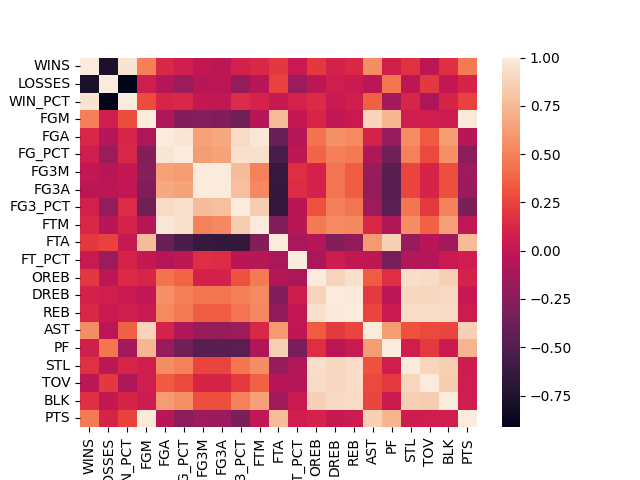
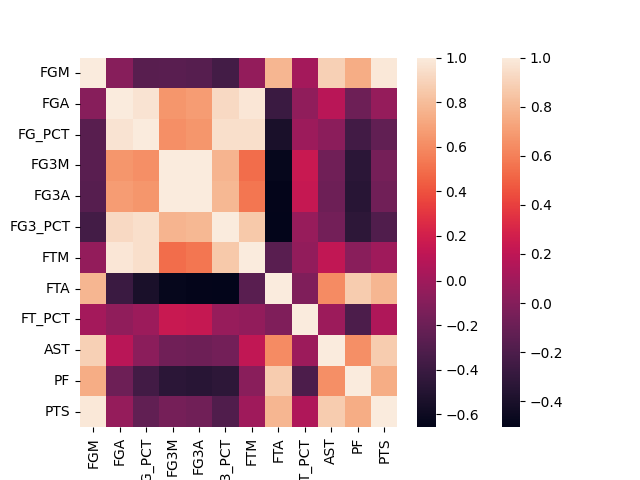
Correlation teams

diff --git a/Plot/team_plot.py b/Plot/team_plot.py
@@ -28,7 +28,6 @@ def plot_evolution(team):
     plt.grid(True)
     plt.title(team + "'s evolution rank")
     plt.savefig("team_plot_images/" + team + " evolution rank.png")
-    plt.show()
 
 # Create a spider plot
 def plot_histogram(team) :
@@ -55,13 +54,12 @@ def plot_histogram(team) :
     plt.grid(True)
     plt.title("Number of 2 points of " + team)
     plt.savefig("team_plot_images/fg2 " + team + ".png")
-    plt.show()
+
     plt.figure()
     plt.bar(list(fg3_dict.values()), list(fg3_dict.keys()))
     plt.grid(True)
     plt.title("Number of 3 points of " + team)
     plt.savefig("team_plot_images/fg3 " + team + ".png")
-    plt.show()
 
 # Create a correlation plot
 def plot_correlation(team):
@@ -79,18 +77,26 @@ def plot_correlation(team):
     df = df.drop('NBA_FINALS_APPEARANCE', axis=1)
     df = df.drop('CONF_RANK', axis=1)
     df = df.drop('CONF_COUNT', axis=1)
+    df = df.drop('WINS', axis=1)
+    df = df.drop('LOSSES', axis=1)
+    df = df.drop('WIN_PCT', axis=1)
+    df = df.drop('OREB', axis=1)
+    df = df.drop('DREB', axis=1)
+    df = df.drop('REB', axis=1)
+    df = df.drop('STL', axis=1)
+    df = df.drop('TOV', axis=1)
+    df = df.drop('BLK', axis=1)
     sns.heatmap(df.corr())
     plt.savefig("team_plot_images/correlation " + team + ".png")
-    plt.show()
 
 
 
 # Test
 team1 = "Cleveland Cavaliers"
 team2 = "Chicago Bulls"
-plot_evolution(team1)
-plot_evolution(team2)
-plot_histogram(team1)
-plot_histogram(team2)
+#plot_evolution(team1)
+#plot_evolution(team2)
+#plot_histogram(team1)
+#plot_histogram(team2)
 plot_correlation(team1)
 plot_correlation(team2)
